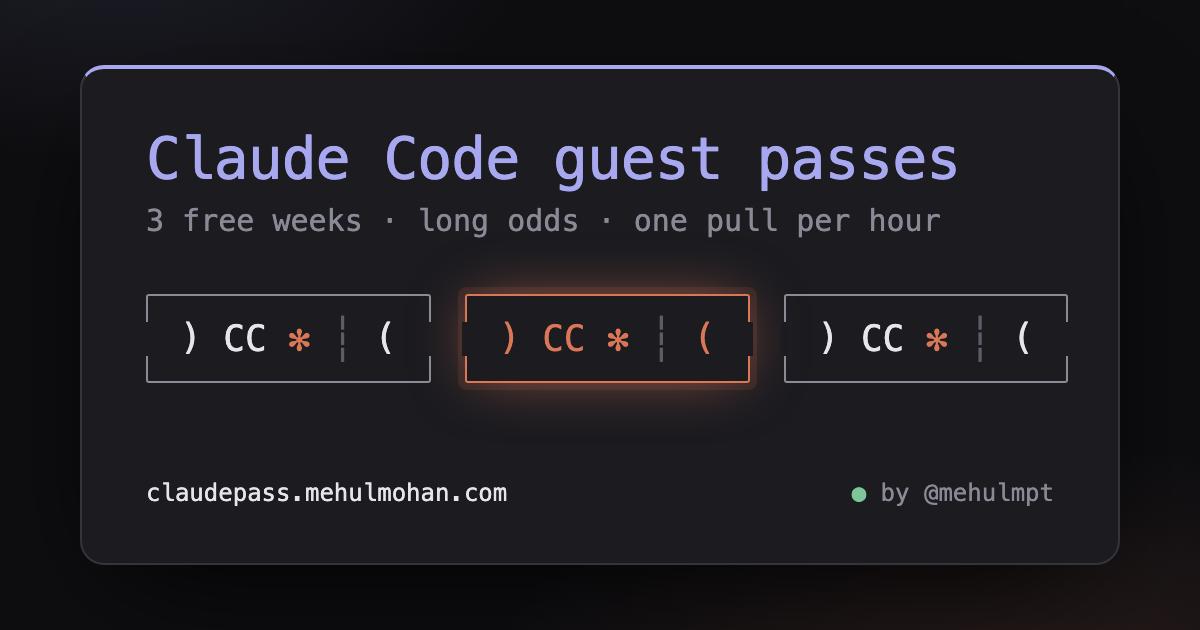
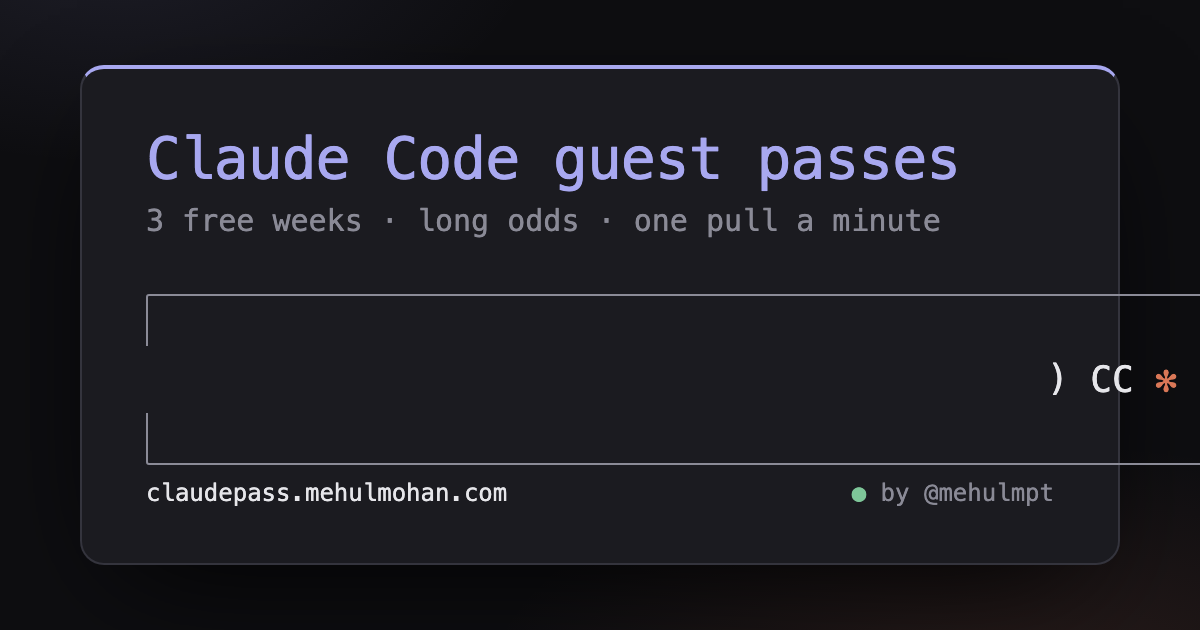
feat: allow one pull per minute instead of per hour
- cooldown drops from 3600s to 60s; page copy and og image updated
- a network can no longer reserve a second pass while its first is still
  unclaimed, since the 5 minute claim window now outlasts the cooldown

diff --git a/src/page.ts b/src/page.ts
@@ -150,7 +150,7 @@ const html = ({
 <meta charset="utf-8">
 <meta name="viewport" content="width=device-width, initial-scale=1">
 <title>Claude Code guest passes · claudepass</title>
-<meta name="description" content="Win a free week of Claude Code. Mehul is giving away 3 guest passes: pick a ticket, one pull per hour, long odds. Winners get the pass by email.">
+<meta name="description" content="Win a free week of Claude Code. Mehul is giving away 3 guest passes: pick a ticket, one pull a minute, long odds. Winners get the pass by email.">
 <meta name="author" content="Mehul Mohan">
 <meta name="robots" content="index, follow, max-image-preview:large">
 <meta name="theme-color" content="#0e0e11">
@@ -161,7 +161,7 @@ const html = ({
 <meta property="og:site_name" content="claudepass">
 <meta property="og:url" content="${SITE}/">
 <meta property="og:title" content="Claude Code guest passes">
-<meta property="og:description" content="3 free weeks of Claude Code up for grabs. Pick a ticket, one pull per hour. Odds: ${fmtLadder(ladder)}.">
+<meta property="og:description" content="3 free weeks of Claude Code up for grabs. Pick a ticket, one pull a minute. Odds: ${fmtLadder(ladder)}.">
 <meta property="og:image" content="${SITE}/og.png">
 <meta property="og:image:width" content="1200">
 <meta property="og:image:height" content="630">
@@ -173,7 +173,7 @@ const html = ({
 <meta name="twitter:site" content="@mehulmpt">
 <meta name="twitter:creator" content="@mehulmpt">
 <meta name="twitter:title" content="Claude Code guest passes">
-<meta name="twitter:description" content="3 free weeks of Claude Code up for grabs. Pick a ticket, one pull per hour, long odds.">
+<meta name="twitter:description" content="3 free weeks of Claude Code up for grabs. Pick a ticket, one pull a minute, long odds.">
 <meta name="twitter:image" content="${SITE}/og.png">
 <meta name="twitter:image:alt" content="Three Claude Code guest pass tickets, one glowing orange.">
 
@@ -425,7 +425,7 @@ form button:disabled { opacity: .5; cursor: default; }
 
 		<div class="out" id="out" aria-live="polite"><p><span class="sk w-a"></span></p><p><span class="sk w-b"></span></p></div>
 		<div class="slot">
-			<p class="hint off" id="hint">← → to pick · Enter to pull · one pull per hour</p>
+			<p class="hint off" id="hint">← → to pick · Enter to pull · one pull a minute</p>
 			<form id="claim" class="off" autocomplete="on">
 				<span class="p">&gt;</span>
 				<input id="email" type="email" name="email" placeholder="you@example.com" required autocomplete="email" spellcheck="false">
@@ -437,7 +437,7 @@ form button:disabled { opacity: .5; cursor: default; }
 	<div class="status">
 		<span>⌂ claudepass.mehulmohan.com</span>
 		<span id="odds">⚄ odds <span class="sk w-odds"></span></span>
-		<span><span class="dot">●</span> 1 pull / hour / network</span>
+		<span><span class="dot">●</span> 1 pull / min / network</span>
 		<span id="pulls">⟳ <span class="sk w-pulls"></span></span>
 	</div>
 </main>
@@ -745,7 +745,7 @@ form button:disabled { opacity: .5; cursor: default; }
 			return;
 		}
 		if (!(res.status === 200)) mood({ state: null });
-		if (res.status === 429 && d.nextPlayAt) return cooldown({ nextPlayAt: d.nextPlayAt, lead: [line({ cls: "bad", text: "✗ This network already pulled within the hour." })] });
+		if (res.status === 429 && d.nextPlayAt) return cooldown({ nextPlayAt: d.nextPlayAt, lead: [line({ cls: "bad", text: "✗ This network already pulled in the last minute." })] });
 		if (res.status === 410) return soldOut();
 		t.classList.remove("chosen");
 		$("tickets").classList.remove("locked");
@@ -876,7 +876,7 @@ form button:disabled { opacity: .5; cursor: default; }
 
 		if (!data.open) { say([line({ cls: "m", text: "The giveaway isn't open yet. Check back soon." })]); return; }
 		if (data.remaining === 0) return soldOut();
-		if (data.nextPlayAt) return cooldown({ nextPlayAt: data.nextPlayAt, lead: [line({ cls: "m", text: "You've already pulled this hour." })] });
+		if (data.nextPlayAt) return cooldown({ nextPlayAt: data.nextPlayAt, lead: [line({ cls: "m", text: "You've already pulled in the last minute." })] });
 		reset();
 		mood({ state: "wave", ms: 1000 });
 	})();

diff --git a/test/api.test.ts b/test/api.test.ts
@@ -245,7 +245,7 @@ describe('playing', () => {
 		expect(await count('SELECT COUNT(*) n FROM claims')).toBe(0)
 	})
 
-	it('allows one pull per hour per network', async () => {
+	it('allows one pull per cooldown per network', async () => {
 		forceRoll({ win: false })
 		const ip = nextIp()
 		expect((await play({ ip })).status).toBe(200)
@@ -290,14 +290,25 @@ describe('playing', () => {
 			token: p.data.token ?? '',
 			email: 'first@example.com',
 		})
-		// Pretend the hour has passed.
+		// Pretend the cooldown has passed.
 		await env.DB.prepare('UPDATE ip_limits SET last_play_at = 0').run()
 		const again = await play({ ip })
 		expect(again.data.won).toBe(false)
 		expect(await count('SELECT COUNT(*) n FROM claims')).toBe(1)
 	})
 
-	it('rejects a failed bot check without using up the hour', async () => {
+	it('does not let a network hold two unclaimed passes at once', async () => {
+		forceRoll({ win: true })
+		const ip = nextIp()
+		expect((await play({ ip })).data.won).toBe(true)
+		// Cooldown over, but the first pass is still waiting to be claimed.
+		await env.DB.prepare('UPDATE ip_limits SET last_play_at = 0').run()
+		const again = await play({ ip })
+		expect(again.data.won).toBe(false)
+		expect(await count('SELECT COUNT(*) n FROM claims')).toBe(1)
+	})
+
+	it('rejects a failed bot check without using up the cooldown', async () => {
 		vi.restoreAllMocks()
 		mockTurnstile({ success: false })
 		const ip = nextIp()

diff --git a/src/index.ts b/src/index.ts
@@ -276,7 +276,7 @@ async function play(req: Request): Promise<Response> {
 			},
 		})
 
-	// 3. Atomically take this network's play for the hour. If two requests race, only one
+	// 3. Atomically take this network's play for the cooldown window. If two requests race, only one
 	//    row update succeeds; the other gets nothing back and is rejected.
 	const took = await first({
 		stmt: env.DB.prepare(
@@ -305,13 +305,15 @@ async function play(req: Request): Promise<Response> {
 	let token: string | null = null
 	if (secureRandom() < 1 / oneIn) {
 		const candidate = randomToken()
-		// Reserve a pass only if one is free and this network hasn't already received one.
+		// Reserve a pass only if one is free and this network holds none: not one already
+		// claimed, and not one still waiting to be claimed (the claim window outlasts the
+		// cooldown, so a network could otherwise win twice before claiming).
 		const reserved = await first({
 			stmt: env.DB.prepare(
 				`INSERT INTO claims (token_hash, ip_key, created_at, expires_at)
 				 SELECT ?1, ?2, ?3, ?4
 				 WHERE (SELECT COUNT(*) FROM claims WHERE redeemed_at IS NOT NULL OR expires_at > ?3) < ?5
-				   AND NOT EXISTS (SELECT 1 FROM claims WHERE ip_key = ?2 AND redeemed_at IS NOT NULL)
+				   AND NOT EXISTS (SELECT 1 FROM claims WHERE ip_key = ?2 AND (redeemed_at IS NOT NULL OR expires_at > ?3))
 				 RETURNING id`,
 			).bind(
 				await sha256(candidate),

diff --git a/cloudflare.config.ts b/cloudflare.config.ts
@@ -31,7 +31,7 @@ export default defineConfig({
 			TOTAL_PASSES: bindings.text('3'),
 			// "1 in N" odds for the 1st, 2nd and 3rd pass: it gets harder as passes go.
 			WIN_ODDS: bindings.text('10000,20000,100000'),
-			COOLDOWN_SECONDS: bindings.text('3600'),
+			COOLDOWN_SECONDS: bindings.text('60'),
 			CLAIM_WINDOW_SECONDS: bindings.text('300'),
 			FROM_ADDRESS: bindings.text('giveaway@mehulmohan.com'),
 			TURNSTILE_SITE_KEY: bindings.text('0x4AAAAAAGTCTKlBQ9uJLIpN'),

diff --git a/og/og.html b/og/og.html
@@ -116,7 +116,7 @@
 	<body>
 		<div class="card">
 			<h1>Claude Code guest passes</h1>
-			<div class="sub">3 free weeks · long odds · one pull per hour</div>
+			<div class="sub">3 free weeks · long odds · one pull a minute</div>
 			<div class="tickets">
 				<div class="t">
 					) CC <span class="s">✻</span> <span class="c">┆</span> (

diff --git a/README.md b/README.md
@@ -8,7 +8,7 @@ This repo is public so anyone can check how the draw works.
 
 ## How the draw works
 
-1. **One pull per hour per network.** Your IP is the key: IPv4 as-is, IPv6 grouped to its `/64` (one subscriber usually controls a whole `/64`, so a per-address limit would be easy to dodge). The check is a single atomic SQL statement, so parallel requests can't sneak in extra pulls.
+1. **One pull a minute per network.** Your IP is the key: IPv4 as-is, IPv6 grouped to its `/64` (one subscriber usually controls a whole `/64`, so a per-address limit would be easy to dodge). The check is a single atomic SQL statement, so parallel requests can't sneak in extra pulls.
 2. **Bot check.** Every pull needs a fresh, single-use [Turnstile](https://developers.cloudflare.com/turnstile/) token, verified on the server.
 3. **The roll.** The server draws from `crypto.getRandomValues`. Odds get harder as passes go:
 
@@ -20,7 +20,7 @@ This repo is public so anyone can check how the draw works.
 
 4. **Claiming.** A win reserves a pass and returns a random 256-bit token. Only its SHA-256 hash is stored. The token works once, for 5 minutes. If nobody claims it in time, the pass goes back into the pool.
 5. **One pass per inbox and per network.** Gmail dots and `+tags` count as the same inbox.
-6. **Flood guard.** A [Workers Rate Limiting](https://developers.cloudflare.com/workers/runtime-apis/bindings/rate-limit/) binding gives each network 60 units a minute across the API: `/api/status` costs 1, `/api/play` and `/api/claim` cost 10. It's approximate and counted per Cloudflare location, so it's only a second line of defense; the hourly D1 check above is the strict one.
+6. **Flood guard.** A [Workers Rate Limiting](https://developers.cloudflare.com/workers/runtime-apis/bindings/rate-limit/) binding gives each network 60 units a minute across the API: `/api/status` costs 1, `/api/play` and `/api/claim` cost 10. It's approximate and counted per Cloudflare location, so it's only a second line of defense; the per-minute D1 check above is the strict one.
 
 **Test mode.** Networks listed in the `TEST_IPS` secret always win so the full flow can be tested on the live site. Test mode never writes to D1 and never uses up a pass, and the page labels it clearly. It's off when the secret is `none`.
 
